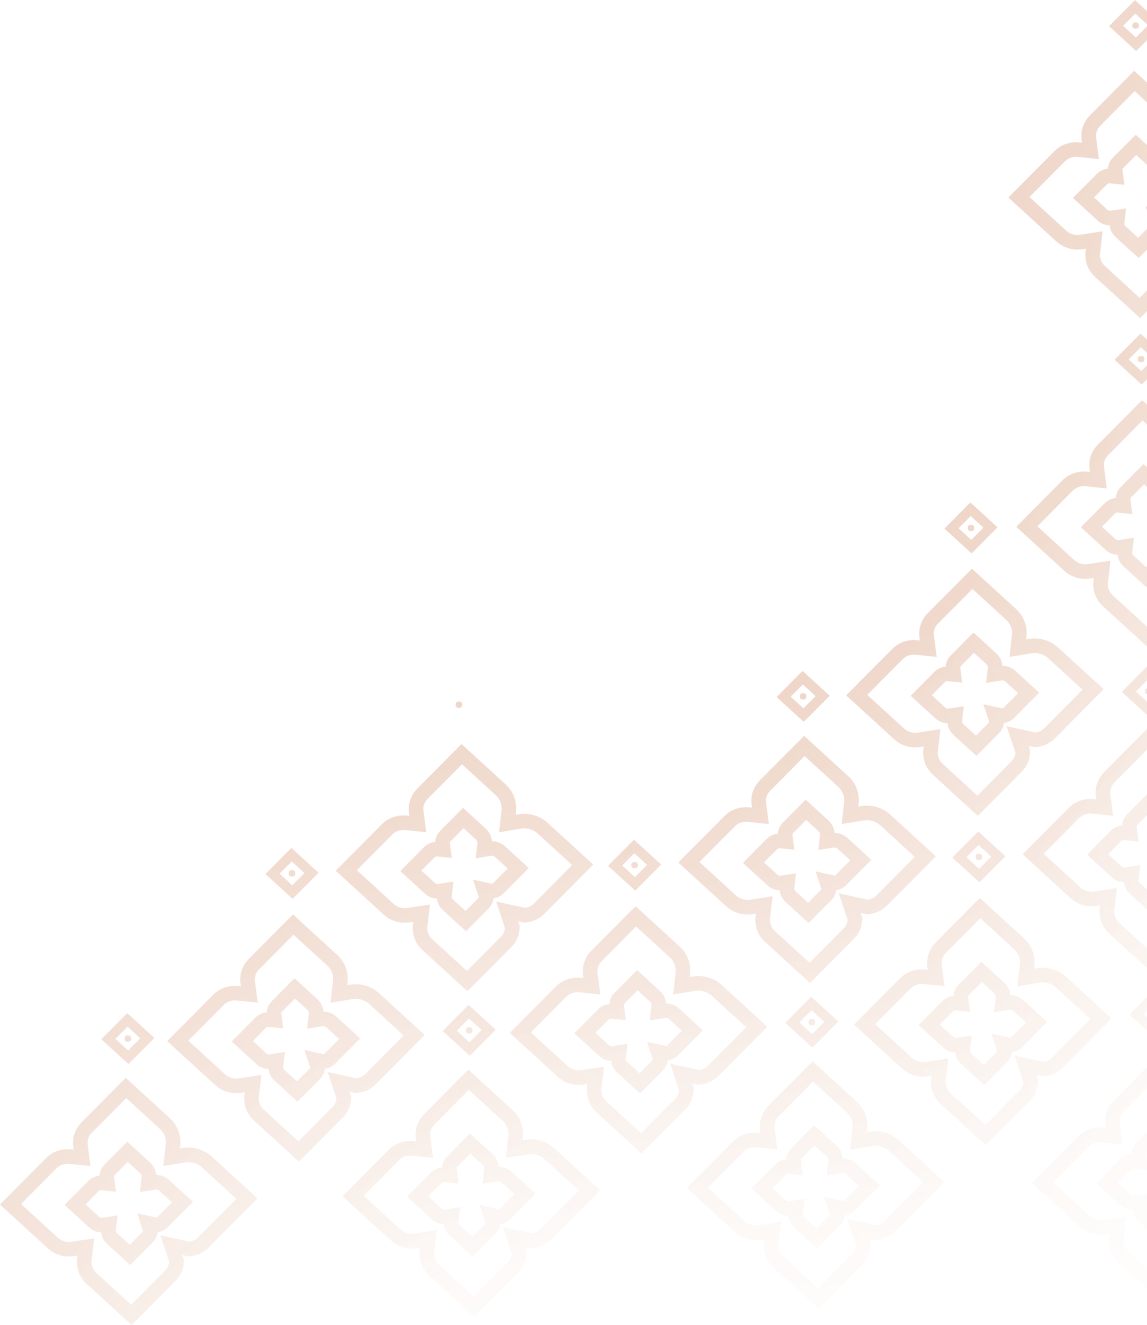
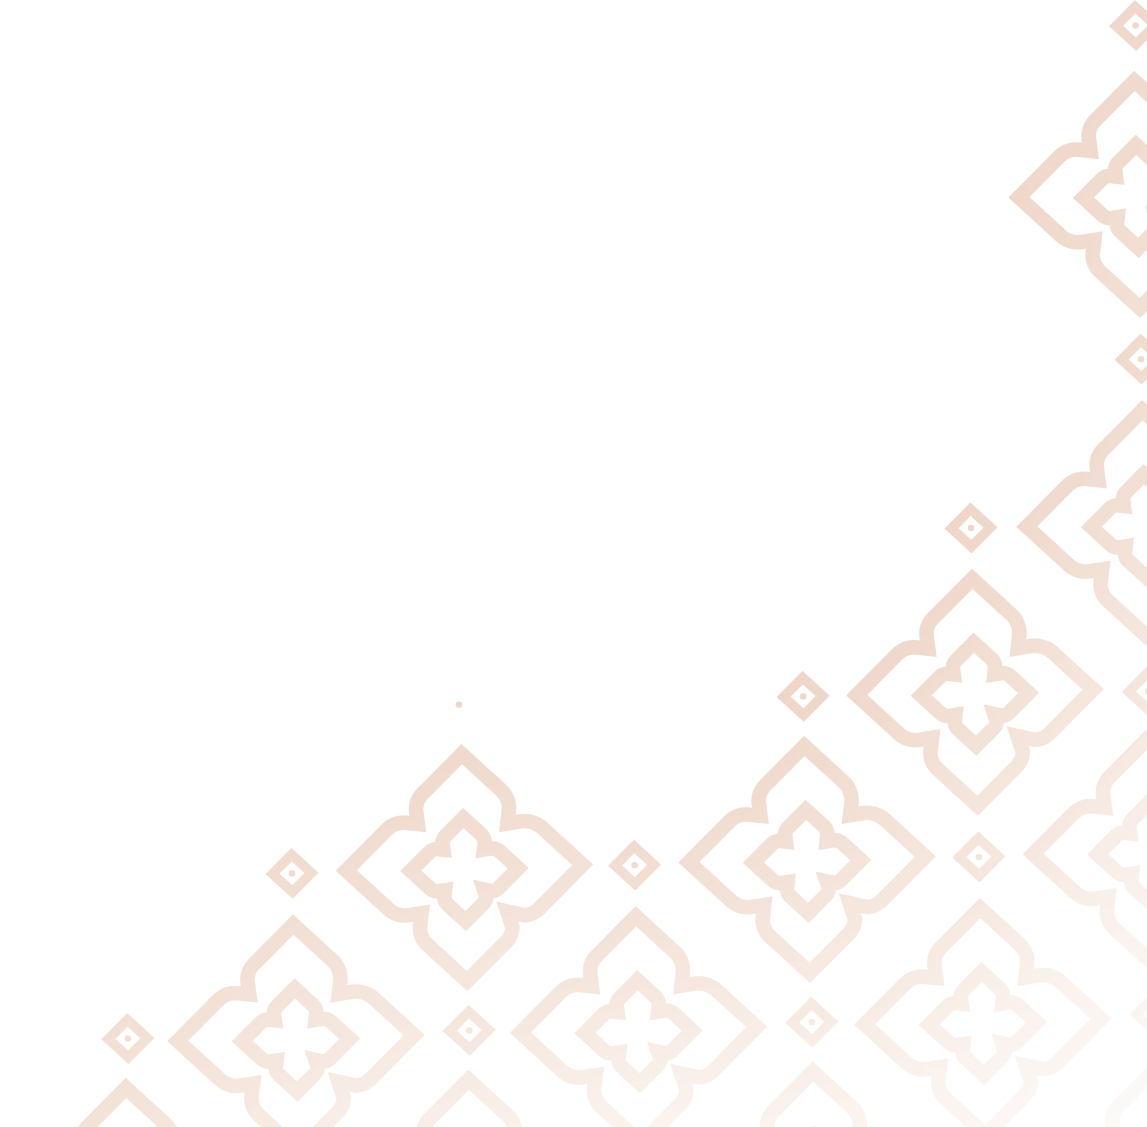
choose location

diff --git a/public/assets/css/style.css b/public/assets/css/style.css
@@ -1,14 +1,26 @@
 @import url('https://fonts.googleapis.com/css2?family=Montserrat:wght@400;500;600;700&display=swap');
+/* 
+400 -> regular
+500 -> medium
+600 -> semi bold
+700 -> bold
+ */
+
+.fw-medium {
+    font-weight: 500 !important;
+}
+
 
 body {
     font-family: 'Montserrat', sans-serif;
 }
+
 #main {
-    height: 100vh;
     background-color: #1a1310;
     background-image: url('/assets/imgs/main_bg.png');
     background-size: cover;
 }
+
 @media (max-width: 991.98px) {
     #main {
         background-color: #1a1310;
@@ -16,6 +28,24 @@ body {
         background-repeat: no-repeat;
         background-size: 200vw;
     }
+}
+
+
+#main .title {
+    font-size: 4.125rem;
+    background-image: linear-gradient(116.16deg, #FFFAE5 33.54%, #D7A210 68.6%);
+    -webkit-background-clip: text;
+    -webkit-text-fill-color: transparent;
+    background-clip: text;
+    color: transparent;
+    font-weight: 600;
+    text-shadow: 0px 7px 20px rgba(0, 0, 0, 0.31);
+}
+
+#main .subtitle {
+    font-size: 3.125rem;
+    font-weight: 400;
+    color: #FFFFFF;
 }
 
 #main-logo {
@@ -28,13 +58,14 @@ body {
     width: 30%;
 }
 
-.navbar {
-    margin-top: 70px;
+.navbar-floating {
+    position: absolute;
+    top: 75px;
+    right: 85px;
+    width: 100%;
 }
-#main-nav {
-    margin-right: 75px;
-}
-.nav-link {
+
+.navbar-expand-lg .navbar-nav .nav-link {
     font-size: 1.25rem;
     color: #FFFFFF;
     text-transform: uppercase;
@@ -44,9 +75,53 @@ body {
     padding-right: 15px;
     letter-spacing: 0.05em;
 }
-.nav-link.active {
+
+.navbar-nav .nav-link:hover {
+    color: #FBBE48;
+}
+
+.navbar-nav .nav-link.active {
     font-size: 1.75rem;
     text-decoration: underline;
     text-underline-offset: 4px;
     color: #FBBE48 !important;
+}
+
+.location-selector {
+    background-color: #120D11;
+    padding: 1.5rem;
+    opacity: 0.75;
+}
+
+.location-selector.active {
+    border: #FBBE48 solid 4px;
+    padding: 1.75rem 3rem 1.75rem 3rem;
+}
+
+.location-selector>.logo {
+    width: 170px;
+    height: 140px;
+}
+
+.location-selector .name {
+    font-size: 2.375rem;
+    font-weight: 600;
+    color: #FBBE48;
+    text-transform: uppercase;
+}
+
+.location-container {
+    margin-left: 2.375rem;
+}
+
+.location-container .locate {
+    font-size: 1.5rem;
+    font-weight: 400;
+    color: #FFFFFF;
+}
+
+.location-container .location {
+    font-size: 1.5rem;
+    font-weight: 600;
+    color: #FFFFFF;
 }

diff --git a/resources/views/home.blade.php b/resources/views/home.blade.php
@@ -24,12 +24,12 @@
 
 <body>
 	<div class="container-fluid">
-		<div class="row" id="main">
-			<img src="{{ URL::to('/assets/imgs/main_bg_art.png') }}" id="main-bg-art" class="position-absolute bottom-0 end-0 p-0"/>
-			<nav class="navbar navbar-expand-lg fixed-top">
+		<header>
+			<nav class="navbar navbar-expand-lg navbar-floating">
 				<div class="container-fluid">
 					<!-- Brand and toggle get grouped for better mobile display -->
-					<button class="navbar-toggler" type="button" data-bs-toggle="collapse" data-bs-target="#main-nav" aria-controls="main-nav" aria-expanded="false" aria-label="Toggle navigation">
+					<button class="navbar-toggler" type="button" data-bs-toggle="collapse" data-bs-target="#main-nav"
+						aria-controls="main-nav" aria-expanded="false" aria-label="Toggle navigation">
 						<span class="navbar-toggler-icon"></span>
 					</button>
 					<div class="collapse navbar-collapse flex-row-reverse" id="main-nav">
@@ -43,12 +43,49 @@
 					</div><!-- /.navbar-collapse -->
 				</div><!-- /.container-fluid -->
 			</nav>
+		</header>
+		<section class="row justify-content-end min-vh-100 align-items-center" id="main">
+			<img src="{{ URL::to('/assets/imgs/main_bg_art.png') }}" id="main-bg-art"
+				class="position-absolute bottom-0 end-0 p-0" />
+			<img src="{{ URL::to('/assets/imgs/logo.png') }}" id="main-logo"
+				class="position-absolute top-0 start-0 p-0" />
 
-			<img src="{{ URL::to('/assets/imgs/logo.png') }}" id="main-logo" class="position-absolute top-0 start-0 p-0"/>
-			<img src="{{ URL::to('/assets/imgs/a.png') }}" class="position-absolute top-0 start-0 p-0" style="opacity: 0.5;"/>
-		</div>
+			<div class="col-8 d-flex flex-column align-items-center mt-5" style="z-index: 1">
+				<p class="title"><span class="fw-normal">Choose</span> Location</p>
+				<p class="subtitle">To freeing the <span class="fw-medium">flow of vital energy</span></p>
+				<p class="subtitle">in your body with</p>
+
+				<div class="location-selector d-inline-flex rounded mt-5 active">
+					<div class="logo">
+						<img src="{{ URL::to('/assets/imgs/logo.png') }}"
+							style='height: 100%; width: 100%; object-fit: contain' />
+					</div>
+					<div class="location-container">
+						<p class="name mb-0">Thai Hands</p>
+						<p class="name mb-0">Massge Therapy</p>
+						<span class="locate">Located on </span>
+						<span class="location">Pearland, TX</span>
+					</div>
+				</div>
+				<div class="location-selector d-inline-flex rounded mt-4">
+					<div class="logo">
+						<img src="{{ URL::to('/assets/imgs/logo2.png') }}"
+							style='height: 100%; width: 100%; object-fit: contain' />
+					</div>
+					<div class="location-container">
+						<p class="name mb-0">Diamond Thai</p>
+						<p class="name mb-0">Massage Therapy</p>
+						<span class="locate">Located on </span>
+						<span class="location">Seabrook, TX</span>
+					</div>
+				</div>
+			</div>
+			{{-- <img src="{{ URL::to('/assets/imgs/a.png') }}" class="position-absolute top-0 start-0 p-0"
+				style="opacity: 0.5;" /> --}}
+		</section>
 	</div>
-	<footer class="text-right">&copy 2015 Thai Hands Massage Therapy. All rights reserved.</footer>
+	<footer class="text-right" style="height: 100vh;">&copy 2015 Thai Hands Massage Therapy. All rights reserved.
+	</footer>
 
 	<div class="modal fade" id="resultModal" tabindex="-1" role="dialog">
 		<div class="modal-dialog">
